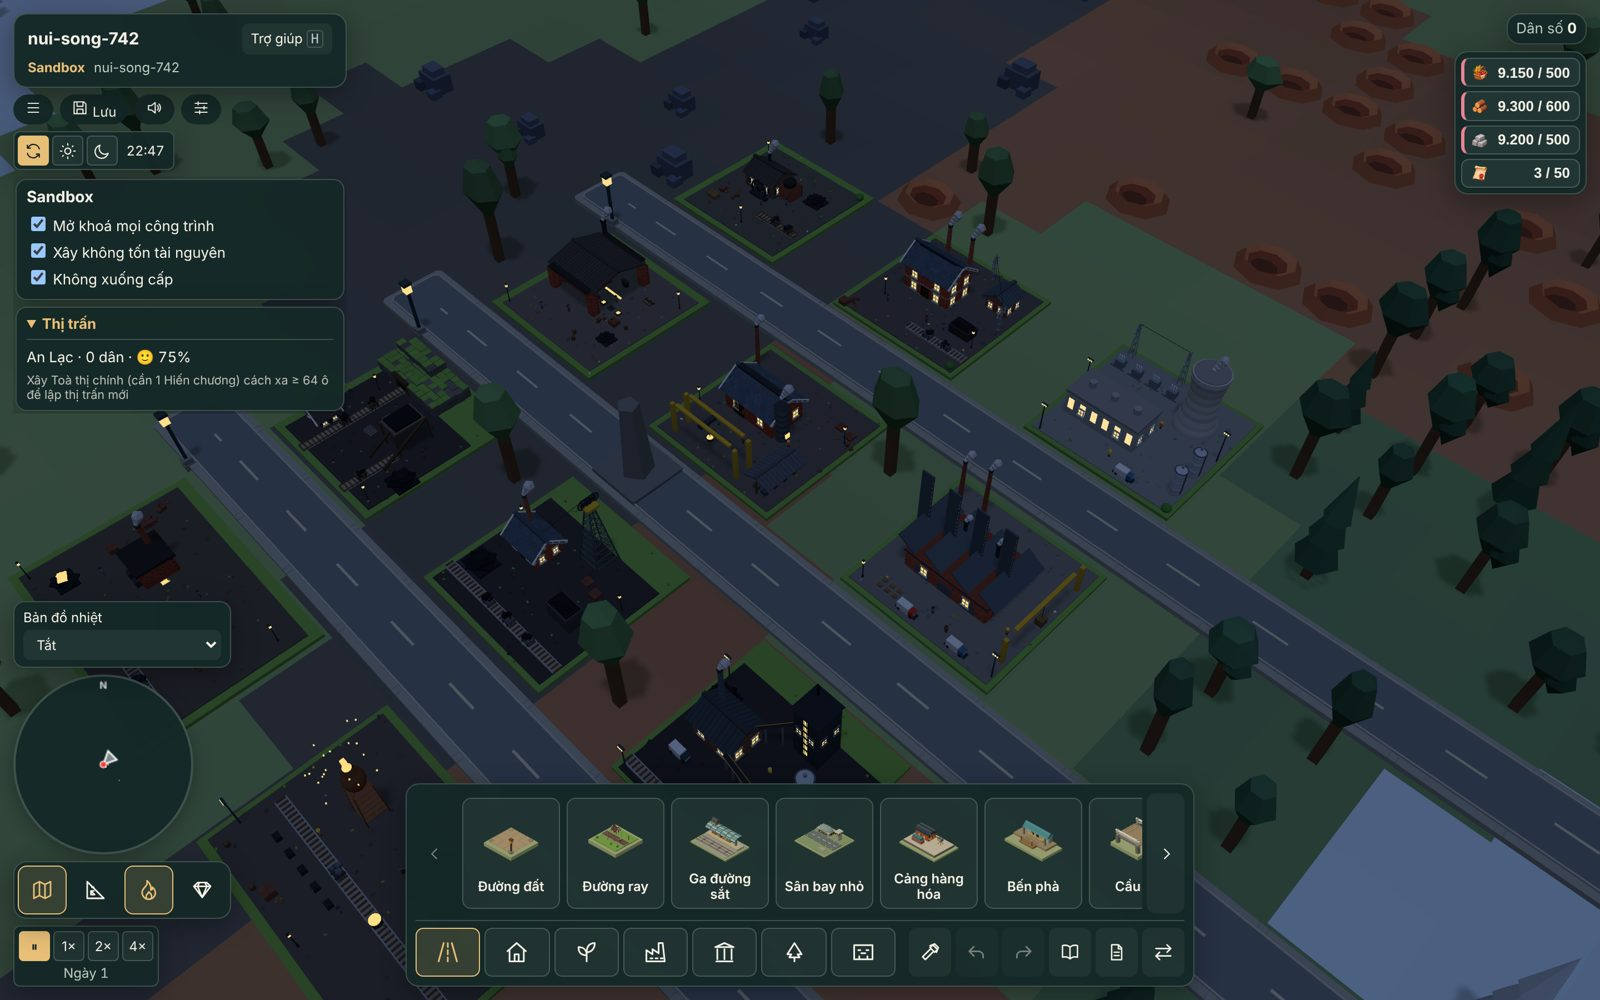
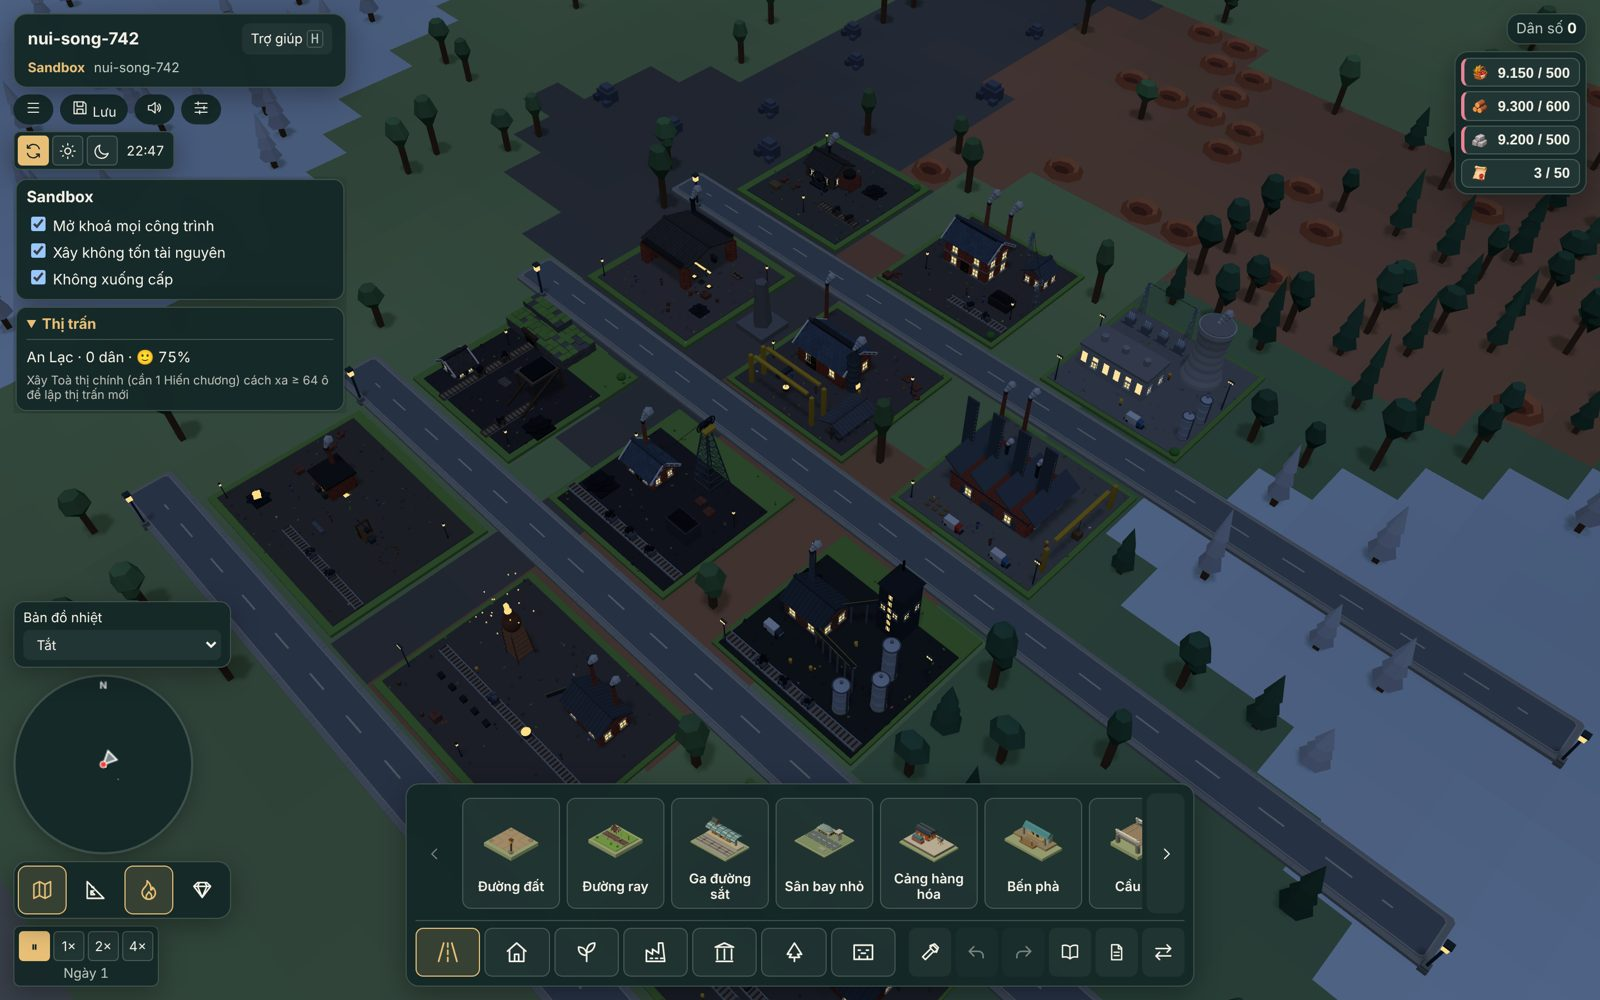
Group 2A: enlarge to 3x3 lots (steelworks 4x3)
Claude-Session: https://claude.ai/code/session_012cw9uibYHunNc9yn7T3gH1

diff --git a/src/render/architectureModels.ts b/src/render/architectureModels.ts
@@ -55,9 +55,14 @@ const dioramas = new Set([
  * lot of 2 / zoom units, so its fractional layout and world-unit props keep their proportions
  * while the finished model grows by `zoom`.
  */
-const zoomed = new Map<string, number>(
-  [...Object.keys(miningDiorama), ...Object.keys(industryDiorama)].map((id) => [id, 1.5]),
-);
+const zoomed = new Map<string, number>([
+  ...Object.keys(miningDiorama).map((id): [string, number] => [id, 1.5]),
+  // Group 2A is drawn at the same 2x2 frame scale but fills 3x3 lots (steelworks 4x3).
+  ...Object.keys(industryDiorama).map((id): [string, number] => [
+    id,
+    id.includes('steel') ? 2 : 2.25,
+  ]),
+]);
 const southRows = new Set(['artisan_row_south', 'terrace_residence_south']);
 
 export function architectureModel(def: BuildingDef, parts: BufferGeometry[], variant = 0): boolean {

diff --git a/tests/unit/featuresExpansion.test.ts b/tests/unit/featuresExpansion.test.ts
@@ -51,11 +51,11 @@ describe('Advanced Urbek-inspired Features', () => {
       city.stock.food = 500;
 
       for (let x = 0; x < 5; x++) history.run(new PlaceCommand('road', x, 0));
-      city._add(city.catalog.get('well'), 2, 1);
+      city._add(city.catalog.get('well'), 3, 1);
       city._add(city.catalog.get('coal_mine'), 0, 1);
-      city._add(city.catalog.get('cottage'), 3, 1);
+      city._add(city.catalog.get('cottage'), 4, 1);
 
-      const cottageUid = city.at(3, 1)?.uid as number;
+      const cottageUid = city.at(4, 1)?.uid as number;
       expect(cottageUid).toBeDefined();
 
       sim.run(24);

diff --git a/README.md b/README.md
@@ -194,15 +194,15 @@ Mỏ đá, hố đất sét, mỏ sắt và đường ray được dựng lại 
 
 ### Nhóm 2A: Công nghiệp nặng và Năng lượng
 
-Nhà máy điện, xưởng đúc, nhà máy, lò luyện thép và mỏ than được dựng lại thành sa bàn chi tiết trên ô 2×2 (lò luyện thép 3×2): nhà máy điện với tuabin, tháp giải nhiệt và trụ điện; xưởng đúc với nồi rót kim loại nóng chảy; mái răng cưa; lò cao với bốn lò gió nóng; tháp tời, băng tải than, xe goòng, công nhân và đèn pha. Thêm 7 công trình cấp cao, mở theo mức đô thị.
+Nhà máy điện, xưởng đúc, nhà máy, lò luyện thép và mỏ than được dựng lại thành sa bàn chi tiết trên ô 3×3 (lò luyện thép 4×3): nhà máy điện với tuabin, tháp giải nhiệt và trụ điện; xưởng đúc với nồi rót kim loại nóng chảy; mái răng cưa; lò cao với bốn lò gió nóng; tháp tời, băng tải than, xe goòng, công nhân và đèn pha. Thêm 7 công trình cấp cao, mở theo mức đô thị.
 
 | Chuỗi               | Cấp                                                                       |
 | ------------------- | ------------------------------------------------------------------------- |
-| Nhà máy điện (2×2)  | Nhà máy điện → Nhà máy hơi nước (đô thị ≥ 2) → Nhà máy điện tuabin (≥ 4)  |
-| Xưởng đúc (2×2)     | Xưởng đúc → Xưởng đúc nặng (≥ 2)                                          |
-| Lò luyện thép (3×2) | Lò luyện thép → Lò luyện thép Bessemer (≥ 2) → Tổ hợp thép liên hợp (≥ 5) |
-| Mỏ than (2×2)       | Mỏ than đá → Mỏ than tháp tời (≥ 2) → Mỏ than hầm sâu (≥ 4)               |
-| Nhà máy (2×2)       | Nhà máy mái răng cưa                                                      |
+| Nhà máy điện (3×3)  | Nhà máy điện → Nhà máy hơi nước (đô thị ≥ 2) → Nhà máy điện tuabin (≥ 4)  |
+| Xưởng đúc (3×3)     | Xưởng đúc → Xưởng đúc nặng (≥ 2)                                          |
+| Lò luyện thép (4×3) | Lò luyện thép → Lò luyện thép Bessemer (≥ 2) → Tổ hợp thép liên hợp (≥ 5) |
+| Mỏ than (3×3)       | Mỏ than đá → Mỏ than tháp tời (≥ 2) → Mỏ than hầm sâu (≥ 4)               |
+| Nhà máy (3×3)       | Nhà máy mái răng cưa                                                      |
 
 ![Nhóm 2A trong thị trấn](docs/images/group2a-town.jpg)
 
